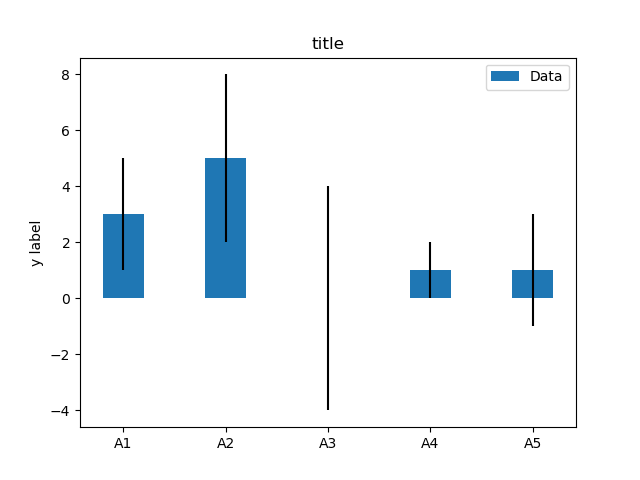
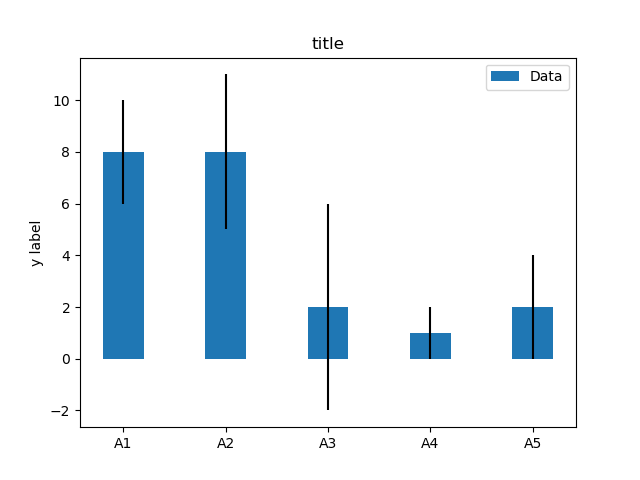
first commit

diff --git a/example.py b/example.py
@@ -2,7 +2,7 @@ import numpy as np
 import matplotlib.pyplot as plt
 
 labels = ['A1', 'A2', 'A3', 'A4', 'A5']
-m_means = [3,5,0,1,1]
+m_means = [8,8,2,1,2]
 m_std = [2, 3, 4, 1, 2]
 width = 0.40       # the width of the bars
 

diff --git a/README.md b/README.md
@@ -1,4 +1,4 @@
-# Matplotlib no 28 
+# Matplotlib no 29 
 
 python example
 
